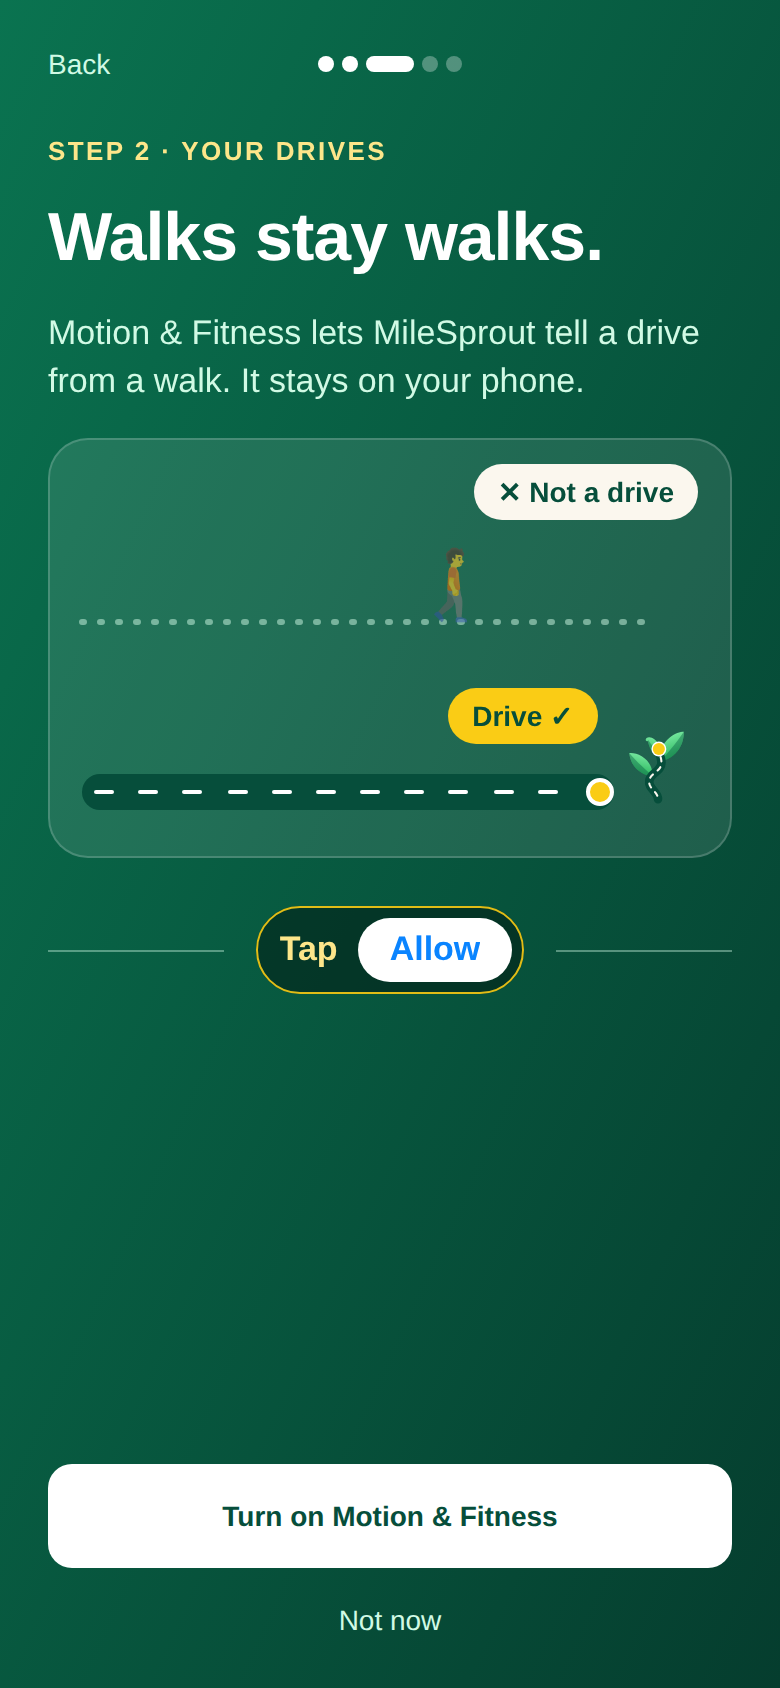
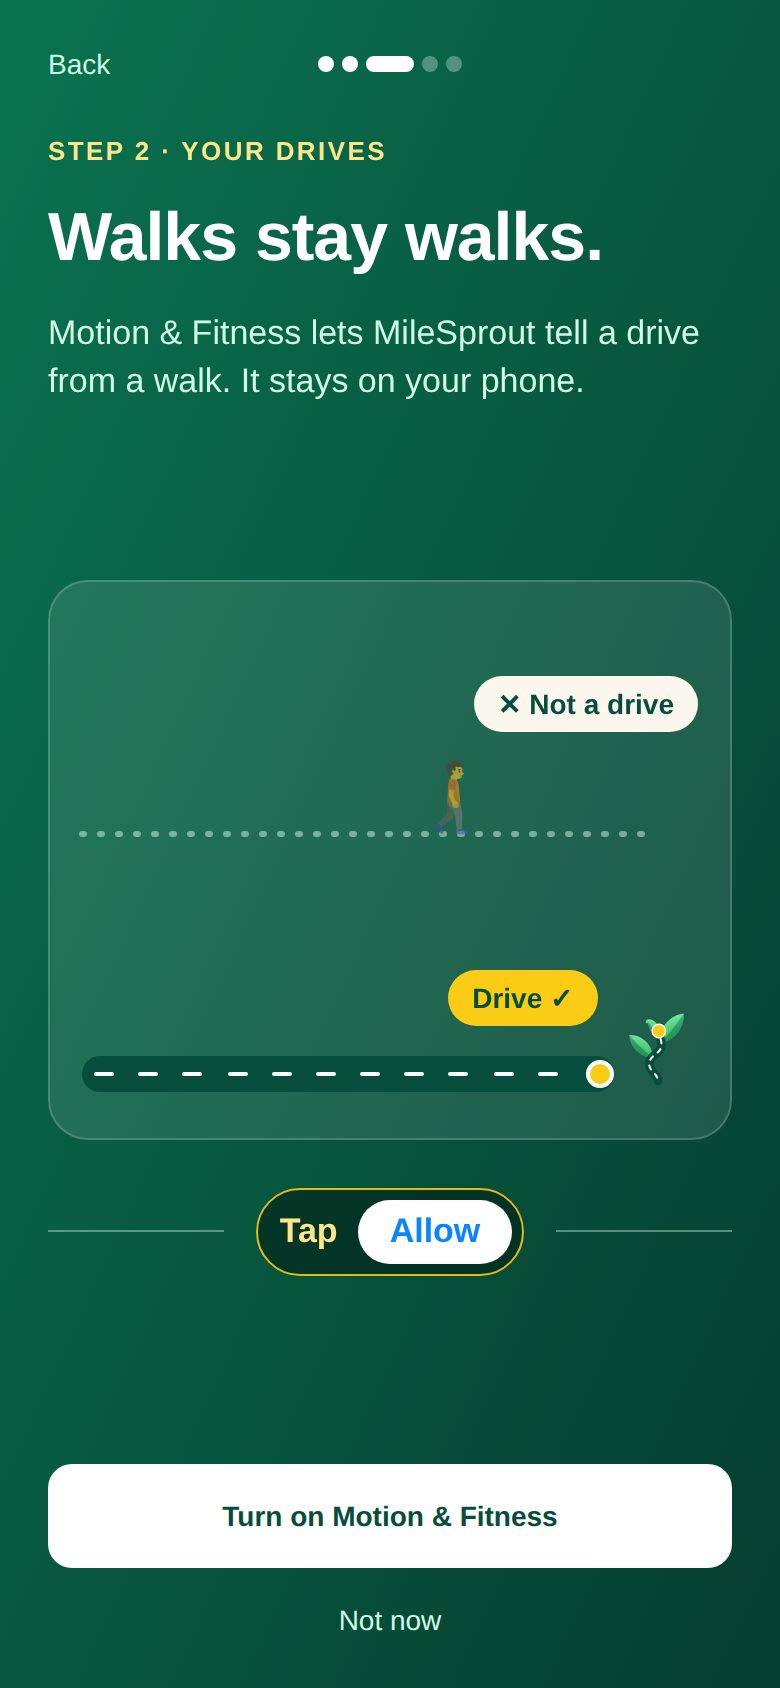
Set-up v2: marketing's fixes
From research_notes/launch-2026/brand-review-setup-v2.md:
1. The Neither tile says "I’ll swipe each drive myself." (existing
   string; tiles now allow 3 lines, ticks sit on the top edge).
2. The finish's and reminders' buttons are pills from the first frame;
   only the sparkle arrives later.
3. "What happens next": the road band runs from the first stop to the
   last. It was full length but the same green as the gradient's dark
   corner; now darker with a light edge, drawn as a share of a fixed
   track.
4. Motion & Fitness: the scene is taller on tall phones (280pt) and the
   scene and Allow pill are centred in the room above the buttons; the
   SE keeps the 210pt scene and fits without scrolling.
- Reminders: the banner behind now shows its real title line, not a
  blank strip.
- zh-Hans: "至 {{time}}".
- Recaptured setup-v2-0, -1, -1r, -2, -3, -3b, -3r; added -1se (375x667).

Claude-Session: https://claude.ai/code/session_01HV35bfD7NzTSNvA32BVxeb

Changed region(s): [[0.0615, 0.4005, 0.9538, 0.7701], [0.0615, 0.2464, 0.9538, 0.3697]]

diff --git a/milemint/src/components/walk-or-drive.tsx b/milemint/src/components/walk-or-drive.tsx
@@ -1,5 +1,5 @@
 import { useEffect, useState } from 'react';
-import { StyleSheet, Text, View } from 'react-native';
+import { StyleSheet, Text, useWindowDimensions, View } from 'react-native';
 import Animated, {
   cancelAnimation,
   Easing,
@@ -45,7 +45,9 @@ const FINAL = HOLD_UNTIL;
 const PLAYS = 3;
 
 const PAD = 16;
+/** Each lane's height: taller on tall phones, so the scene fills the step (an SE gets the shorter one). */
 const LANE = 105;
+const LANE_TALL = 140;
 const WALKER = 34;
 const LEAF = 40;
 const DASH_COUNT = 12;
@@ -84,6 +86,7 @@ export function WalkOrDrive() {
   const t = useT();
   const reduceMotion = useReducedMotion();
   const [width, setWidth] = useState(0);
+  const lane = useWindowDimensions().height >= 800 ? LANE_TALL : LANE;
   const clock = useSharedValue(FINAL);
 
   useEffect(() => {
@@ -104,14 +107,14 @@ export function WalkOrDrive() {
 
   return (
     <View
-      style={styles.card}
+      style={[styles.card, { height: 2 * lane }]}
       accessible
       accessibilityLabel={t('A walk is marked Not a drive. A drive is logged.')}
       onLayout={(event) => setWidth(event.nativeEvent.layout.width)}>
       {width > 0 && (
         <>
-          <Walk clock={clock} width={width} notADrive={t('Not a drive')} />
-          <Drive clock={clock} width={width} drive={t('Drive ✓')} />
+          <Walk clock={clock} width={width} lane={lane} notADrive={t('Not a drive')} />
+          <Drive clock={clock} width={width} lane={lane} drive={t('Drive ✓')} />
         </>
       )}
     </View>
@@ -119,8 +122,18 @@ export function WalkOrDrive() {
 }
 
 /** The footpath: a walker strolls 60% of the way, bobbing, and is marked "Not a drive". */
-function Walk({ clock, width, notADrive }: { clock: SharedValue<number>; width: number; notADrive: string }) {
-  const path = { y: LANE - 14, from: PAD, to: width - PAD };
+function Walk({
+  clock,
+  width,
+  lane,
+  notADrive,
+}: {
+  clock: SharedValue<number>;
+  width: number;
+  lane: number;
+  notADrive: string;
+}) {
+  const path = { y: lane - 14, from: PAD, to: width - PAD };
   const travel = (width - 2 * PAD - WALKER) * 0.6;
   const walker = useAnimatedStyle(() => {
     const time = clock.value;
@@ -141,7 +154,7 @@ function Walk({ clock, width, notADrive }: { clock: SharedValue<number>; width: 
     };
   });
   return (
-    <View style={[styles.lane, { top: 0 }]}>
+    <View style={[styles.lane, { top: 0, height: lane }]}>
       <Svg style={StyleSheet.absoluteFill}>
         <Line
           x1={path.from}
@@ -157,7 +170,7 @@ function Walk({ clock, width, notADrive }: { clock: SharedValue<number>; width: 
       {/* The emoji faces left; flipped, it walks the way it's going. */}
       <Animated.Text style={[styles.walker, { left: PAD, top: path.y - WALKER - 4 }, walker]}>🚶</Animated.Text>
       {/* Above the end of the path, clear of the walker, with room for longer languages. */}
-      <Animated.View style={[styles.chip, styles.creamChip, { right: PAD, top: 12, maxWidth: width - 2 * PAD }, chip]}>
+      <Animated.View style={[styles.chip, styles.creamChip, { right: PAD, top: path.y - 79, maxWidth: width - 2 * PAD }, chip]}>
         <Text style={styles.chipText} numberOfLines={1} adjustsFontSizeToFit minimumFontScale={0.7}>
           ✕ {notADrive}
         </Text>
@@ -167,8 +180,18 @@ function Walk({ clock, width, notADrive }: { clock: SharedValue<number>; width: 
 }
 
 /** The road: the gold car drives it, dashes appear behind it, and a sprout springs up at the end. */
-function Drive({ clock, width, drive }: { clock: SharedValue<number>; width: number; drive: string }) {
-  const road = { y: LANE - 34, from: PAD, to: width - PAD - LEAF - 4 };
+function Drive({
+  clock,
+  width,
+  lane,
+  drive,
+}: {
+  clock: SharedValue<number>;
+  width: number;
+  lane: number;
+  drive: string;
+}) {
+  const road = { y: lane - 34, from: PAD, to: width - PAD - LEAF - 4 };
   const length = road.to - road.from;
   const car = useAnimatedStyle(() => {
     const time = clock.value;
@@ -196,7 +219,7 @@ function Drive({ clock, width, drive }: { clock: SharedValue<number>; width: num
   });
   const roadStyle = useAnimatedStyle(() => ({ opacity: Math.max(0.35, sceneOpacity(clock.value)) }));
   return (
-    <View style={[styles.lane, { top: LANE }]}>
+    <View style={[styles.lane, { top: lane, height: lane }]}>
       <Animated.View
         style={[styles.road, { left: road.from, top: road.y - ROAD / 2, width: length }, roadStyle]}>
         {Array.from({ length: DASH_COUNT }, (_, i) => (
@@ -232,7 +255,6 @@ function Dash({ index, clock, spacing, length }: { index: number; clock: SharedV
 
 const styles = StyleSheet.create({
   card: {
-    height: 2 * LANE,
     alignSelf: 'stretch',
     backgroundColor: 'rgba(255,255,255,0.10)',
     borderColor: 'rgba(255,255,255,0.18)',
@@ -240,7 +262,7 @@ const styles = StyleSheet.create({
     borderRadius: 20,
     overflow: 'hidden',
   },
-  lane: { position: 'absolute', left: 0, right: 0, height: LANE },
+  lane: { position: 'absolute', left: 0, right: 0 },
   walker: { position: 'absolute', fontSize: WALKER, lineHeight: WALKER + 6, width: WALKER + 6, textAlign: 'center' },
   chip: {
     position: 'absolute',

diff --git a/milemint/src/components/setup-arrival.tsx b/milemint/src/components/setup-arrival.tsx
@@ -118,7 +118,7 @@ export function SetupTiles({ tiles, start }: { tiles: SetupTile[]; start: boolea
         const body = (
           <>
             <Text style={styles.tileIcon}>{tile.icon}</Text>
-            <Text style={styles.tileLabel} numberOfLines={2}>
+            <Text style={styles.tileLabel} numberOfLines={3}>
               {tile.label}
             </Text>
             <Animated.View
@@ -182,11 +182,13 @@ export function NextTimeline({ start, tiles }: { start: boolean; tiles: number }
     // eslint-disable-next-line react-hooks/exhaustive-deps
   }, [start, reduceMotion]);
 
+  /** From the first stop's centre to the last's. */
   const span = (width * (NODES.length - 1)) / NODES.length;
-  const roadStyle = useAnimatedStyle(() => ({ width: span * road.value }));
+  // Shares of a fixed track, so the animated styles never depend on the measured width.
+  const roadStyle = useAnimatedStyle(() => ({ width: `${100 * road.value}%` }));
   const carStyle = useAnimatedStyle(() => ({
     opacity: car.value > 0 && car.value < 1 ? 1 : 0,
-    transform: [{ translateX: span * car.value - CAR / 2 }],
+    left: `${100 * car.value}%`,
   }));
 
   return (
@@ -197,18 +199,16 @@ export function NextTimeline({ start, tiles }: { start: boolean; tiles: number }
       <Text style={styles.heading}>{t('What happens next').toLocaleUpperCase()}</Text>
       <View onLayout={(event) => setWidth(event.nativeEvent.layout.width)}>
         {width > 0 && (
-          <>
-            <Animated.View style={[styles.road, { left: width / NODES.length / 2 }, roadStyle]}>
+          <View style={[styles.track, { left: width / NODES.length / 2, width: span }]}>
+            <Animated.View style={[styles.road, roadStyle]}>
               <View style={[styles.lane, { width: span }]}>
                 {Array.from({ length: Math.max(1, Math.floor(span / 18)) }, (_, i) => (
                   <View key={i} style={styles.dash} />
                 ))}
               </View>
             </Animated.View>
-            {!reduceMotion && (
-              <Animated.View style={[styles.car, { left: width / NODES.length / 2 }, carStyle]} />
-            )}
-          </>
+            {!reduceMotion && <Animated.View style={[styles.car, carStyle]} />}
+          </View>
         )}
         <View style={styles.nodes}>
           {NODES.map((node, i) => (
@@ -284,7 +284,7 @@ const styles = StyleSheet.create({
     gap: Spacing.two,
     paddingVertical: Spacing.two,
     paddingLeft: Spacing.three,
-    paddingRight: Spacing.four + 4,
+    paddingRight: Spacing.three + 4,
     borderRadius: 16,
     backgroundColor: 'rgba(255,255,255,0.12)',
     borderColor: 'rgba(255,255,255,0.18)',
@@ -294,8 +294,8 @@ const styles = StyleSheet.create({
   tileLabel: { flex: 1, color: '#FFFFFF', fontSize: 15, lineHeight: 19, fontWeight: '700' },
   badge: {
     position: 'absolute',
-    top: 6,
-    right: 6,
+    top: -6,
+    right: 8,
     width: 20,
     height: 20,
     borderRadius: 10,
@@ -307,12 +307,17 @@ const styles = StyleSheet.create({
   badgeText: { color: '#064E3B', fontSize: 12, lineHeight: 14, fontWeight: '900' },
   timeline: { gap: Spacing.two },
   heading: { color: '#FDE68A', fontSize: 13, fontWeight: '800', letterSpacing: 1.2 },
+  track: { position: 'absolute', top: 0, height: NODE },
   road: {
     position: 'absolute',
+    left: 0,
     top: NODE / 2 - 6,
     height: 12,
     borderRadius: 6,
-    backgroundColor: '#064E3B',
+    // Darker than the gradient's own bottom-right, with a light edge, so it reads to the last stop.
+    backgroundColor: '#022C22',
+    borderColor: 'rgba(255,255,255,0.22)',
+    borderWidth: StyleSheet.hairlineWidth,
     overflow: 'hidden',
   },
   lane: { height: 12, flexDirection: 'row', alignItems: 'center', justifyContent: 'space-around' },
@@ -320,6 +325,7 @@ const styles = StyleSheet.create({
   car: {
     position: 'absolute',
     top: NODE / 2 - CAR / 2,
+    marginLeft: -CAR / 2,
     width: CAR,
     height: CAR,
     borderRadius: CAR / 2,

diff --git a/milemint/src/components/motion-ask.tsx b/milemint/src/components/motion-ask.tsx
@@ -93,21 +93,24 @@ export function MotionStep() {
       <Text style={styles.body}>
         {t('Motion & Fitness lets MileSprout tell a drive from a walk. It stays on your phone.')}
       </Text>
-      <WalkOrDrive />
-      <View style={styles.then}>
-        <View style={styles.thenLine} />
-        {/* The same fairy dust as the coach behind the real question: it's the one thing to tap. */}
-        <View style={styles.tapPill} accessible accessibilityLabel={t('Tap “{{button}}”', { button: t('Allow') })}>
-          <GoldSparkle />
-          {!!unquote(before) && <Text style={styles.tapText}>{unquote(before)}</Text>}
-          <View style={styles.allowChip}>
-            <Text style={styles.allowChipText} numberOfLines={1}>
-              {t('Allow')}
-            </Text>
+      {/* The picture and what to tap, centred in the room left above the buttons. */}
+      <View style={styles.hero}>
+        <WalkOrDrive />
+        <View style={styles.then}>
+          <View style={styles.thenLine} />
+          {/* The same fairy dust as the coach behind the real question: it's the one thing to tap. */}
+          <View style={styles.tapPill} accessible accessibilityLabel={t('Tap “{{button}}”', { button: t('Allow') })}>
+            <GoldSparkle />
+            {!!unquote(before) && <Text style={styles.tapText}>{unquote(before)}</Text>}
+            <View style={styles.allowChip}>
+              <Text style={styles.allowChipText} numberOfLines={1}>
+                {t('Allow')}
+              </Text>
+            </View>
+            {!!unquote(after) && <Text style={styles.tapText}>{unquote(after)}</Text>}
           </View>
-          {!!unquote(after) && <Text style={styles.tapText}>{unquote(after)}</Text>}
+          <View style={styles.thenLine} />
         </View>
-        <View style={styles.thenLine} />
       </View>
     </>
   );
@@ -219,6 +222,7 @@ const styles = StyleSheet.create({
   // Pale gold, 13pt: reads at AA on the top of the brand gradient.
   eyebrow: { color: '#FDE68A', fontSize: 13, fontWeight: '800', letterSpacing: 1.2, marginTop: Spacing.one },
   title: { color: '#FFFFFF', fontSize: 34, lineHeight: 40, fontWeight: '800', letterSpacing: -0.5 },
+  hero: { flexGrow: 1, justifyContent: 'center', gap: Spacing.three },
   then: { flexDirection: 'row', alignItems: 'center', gap: Spacing.three, marginTop: Spacing.two },
   thenLine: { flex: 1, height: StyleSheet.hairlineWidth, backgroundColor: 'rgba(209,250,229,0.4)' },
   tapPill: {

diff --git a/milemint/src/components/reminders-step.tsx b/milemint/src/components/reminders-step.tsx
@@ -19,6 +19,8 @@ import { useLanguage, useT } from '@/i18n/i18n';
 
 /** The second banner stacks in behind the first after this long. */
 const SECOND_AFTER_MS = 1800;
+/** How far the second banner shows below the first: enough for its title line. */
+const PEEK = 30;
 
 /**
  * Set-up's reminders step, before iOS asks about notifications: what
@@ -99,8 +101,8 @@ function NotificationStack({ region }: { region: Region }) {
     transform: [{ translateY: -40 * (1 - first.value) }],
   }));
   const secondStyle = useAnimatedStyle(() => ({
-    opacity: 0.6 * second.value,
-    transform: [{ translateY: 18 * second.value }, { scale: 0.92 }],
+    opacity: 0.85 * second.value,
+    transform: [{ translateY: PEEK * second.value }, { scale: 0.92 }],
   }));
 
   const header = (
@@ -120,9 +122,9 @@ function NotificationStack({ region }: { region: Region }) {
       accessible
       accessibilityLabel={t('Example notification: Your drives are waiting. Sort them before Monday.')}>
       <View style={styles.stack}>
+        {/* Only its last line shows below the first: the real countdown, not a blank strip. */}
         <Animated.View style={[styles.banner, styles.behind, secondStyle]}>
-          {header}
-          <Text style={styles.bannerTitle} numberOfLines={1}>
+          <Text style={[styles.bannerTitle, styles.behindTitle]} numberOfLines={1}>
             {countdown}
           </Text>
         </Animated.View>
@@ -150,7 +152,7 @@ const styles = StyleSheet.create({
     borderWidth: StyleSheet.hairlineWidth,
     borderRadius: 20,
     padding: Spacing.three,
-    paddingBottom: Spacing.three + 12,
+    paddingBottom: Spacing.three + PEEK - 4,
     overflow: 'hidden',
   },
   stack: { minHeight: 96 },
@@ -162,7 +164,8 @@ const styles = StyleSheet.create({
     paddingVertical: 12,
     gap: 2,
   },
-  behind: { position: 'absolute', left: 0, right: 0, top: 0, bottom: 0 },
+  behind: { position: 'absolute', left: 0, right: 0, top: 0, bottom: 0, justifyContent: 'flex-end' },
+  behindTitle: { color: '#3A3A3C' },
   bannerHeader: { flexDirection: 'row', alignItems: 'center', gap: Spacing.two, marginBottom: 4 },
   appIcon: {
     width: 28,

diff --git a/milemint/src/app/welcome.tsx b/milemint/src/app/welcome.tsx
@@ -650,10 +650,17 @@ export default function WelcomeScreen() {
     const amount = formatRate(rate, picked);
     return picked.unit === 'mi' ? t('{{rate}} a mile', { rate: amount }) : t('{{rate}} a km', { rate: amount });
   })();
-  const workTile = WORK_STYLE_TEXT[shifts ? 'shifts' : hoursSet ? 'hours' : 'neither'];
+  const workStyleDone: WorkStyle = shifts ? 'shifts' : hoursSet ? 'hours' : 'neither';
+  const workTile = WORK_STYLE_TEXT[workStyleDone];
   const tiles: SetupTile[] = [
     { key: 'rate', icon: picked.flag, label: rateTile, ok: true },
-    { key: 'work', icon: workTile.emoji, label: t(workTile.title), ok: true },
+    // "Neither" means nothing out of its question: its own line says it.
+    {
+      key: 'work',
+      icon: workTile.emoji,
+      label: t(workStyleDone === 'neither' ? workTile.detail : workTile.title),
+      ok: true,
+    },
   ];
   if (status === 'on') tiles.push({ key: 'logging', icon: '📍', label: t('Drive logging’s set up'), ok: true });
   else if (status === 'needs-always') {
@@ -696,7 +703,8 @@ export default function WelcomeScreen() {
       onPress={once(onPress)}
       style={[
         styles.primary,
-        glint && styles.primaryPill,
+        // A pill from the first frame on the last two steps: only the sparkle arrives later.
+        (glint || step === REMINDERS || step === DONE) && styles.primaryPill,
         { backgroundColor: onBrand ? '#FFFFFF' : theme.accent, opacity: busy ? 0.6 : enabled ? 1 : 0.35 },
       ]}>
       {/* The one thing left to tap: gold fairy dust round the pill (a still gold edge with Reduce Motion). */}

diff --git a/milemint/src/i18n/locales/zh-Hans.ts b/milemint/src/i18n/locales/zh-Hans.ts
@@ -1507,7 +1507,7 @@ const dictionary: Dictionary = {
   "What happens next": "接下来",
   "A walk is marked Not a drive. A drive is logged.": "步行会标记为“不是行程”。开车会被记录。",
   "Drive ✓": "行程 ✓",
-  "Until {{time}}": "到 {{time}}",
+  "Until {{time}}": "至 {{time}}",
   "Outside work hours": "工作时间之外",
   "Drives are saved when you park.": "停车后行程会自动保存。",
 };
